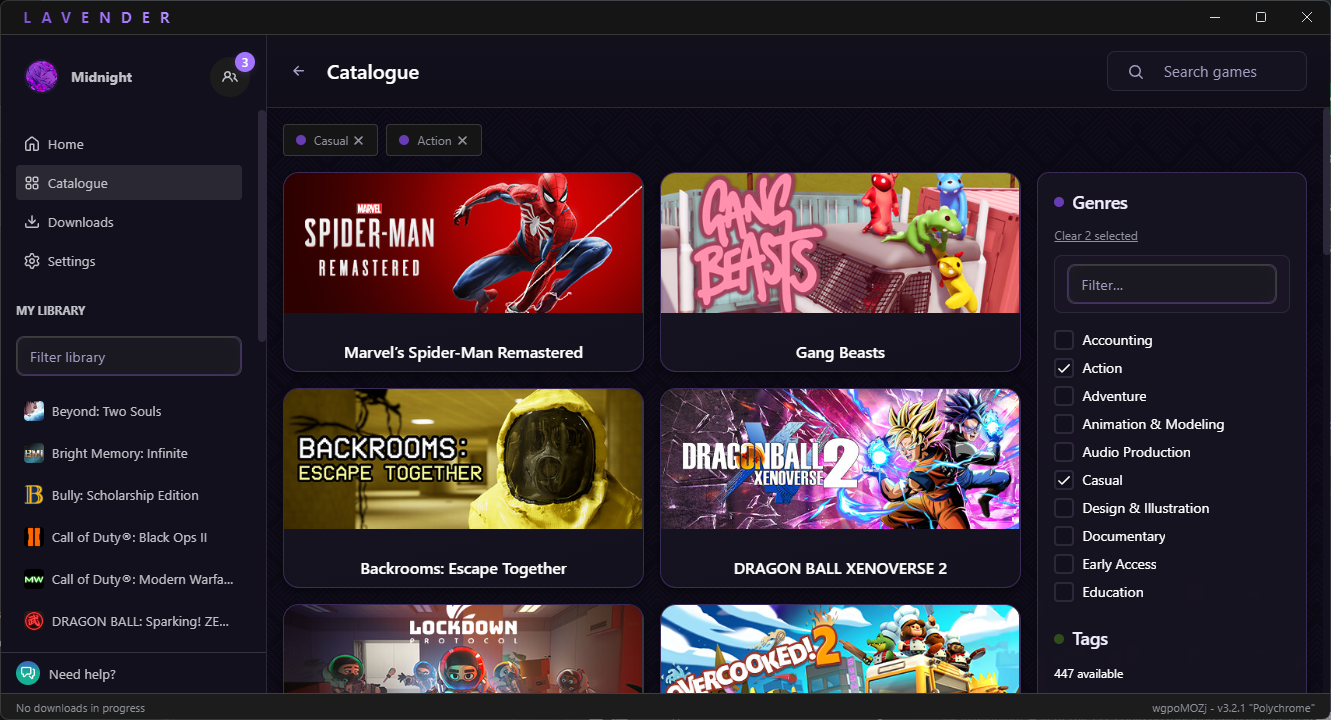
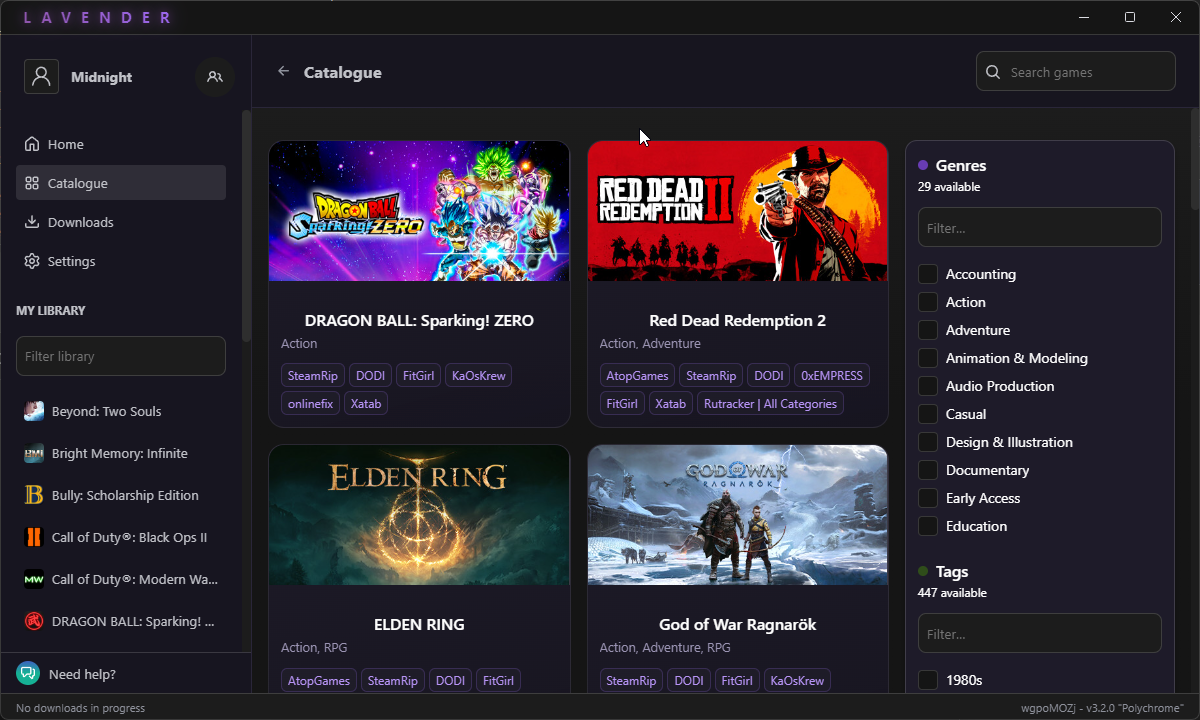
Updated Lavendar (#188)
* Delete themes/Lavender-3Q170Mjz/screenshot.png

* Add files via upload

* Update theme.css

* Update theme.css

* Update theme.css

diff --git a/themes/Lavender-3Q170Mjz/theme.css b/themes/Lavender-3Q170Mjz/theme.css
@@ -431,7 +431,7 @@ overflow: hidden;
     box-shadow: var(--shadow-md);
     transform: translateZ(0);
     will-change: transform;
-    min-height: 160px; /* Set a minimum height */
+    min-height: 220px; /* Set a minimum height */
     max-height: 200px; /* Set a maximum height */
 }
 
@@ -444,6 +444,19 @@ overflow: hidden;
     transition: opacity 0.3s ease;
 }
 
+.game-item::after { /* changed */
+    content: '';
+    position: absolute;
+    inset: 0;
+      background: linear-gradient(
+    to bottom,
+    rgba(0, 0, 0, 0) 40%,
+    rgba(0, 0, 0, 0.3) 80%,
+    rgba(0, 0, 0, 0.5) 100% 
+  );
+  z-index: -1;
+}
+
 .game-item:hover {
     transform: translateY(-8px) scale(1.02);
     border-color: var(--purple);
@@ -454,26 +467,50 @@ overflow: hidden;
     opacity: 0.5;
 }
 
-.game-item__cover {
-    width: 100%;
-    height: 140px; /* Adjusted for better proportion */
-    object-fit: cover;
-    border-radius: 12px 12px 0 0;
-    transition: transform 0.5s ease;
+.game-item__cover { /* changed */
+    /* width: 100%; */
+    /* height: 140px; Adjusted for better proportion */
+    /* object-fit: cover; */
+    /* border-radius: 12px 12px 0 0; */
+    /* transition: transform 0.5s ease; */
+    position: absolute;
+    inset: 0;
+    height: 100%;
+    width: 100%;    
+    z-index: -2;
 }
 
 .game-item:hover .game-item__cover {
     transform: scale(1.05);
 }
 
-.game-item__details {
+.game-item__details { /* changed */
     padding: 12px; /* Reduced from 16px */
     display: flex;
-    flex-direction: column;
+    flex-direction: row;
+    flex-wrap: wrap;
     gap: 6px; /* Reduced from 8px */
     width: 100%;
     box-sizing: border-box;
+    bottom: 0;
+    position: absolute;
+    text-align: left;
+    align-items: flex-end;
 }
+
+#root > main > article > section > div > div.catalogue__content > div.catalogue__games-container > button > div > span:nth-child(1) {
+  width: fit-content;
+  flex: 0 0 auto;
+  display: flex;
+} /* changed */
+
+#root > main > article > section > div > div.catalogue__content > div.catalogue__games-container > button > div > span.game-item__genres {
+  display: none;
+} /* changed */
+
+.game-item__details > *:nth-child(3) {
+  flex-basis: 100%;
+} /* changed */
 
 .game-item__details span:first-child {
     font-weight: 600;
@@ -517,21 +554,22 @@ overflow: hidden;
     padding: 4px 8px;
     border-radius: 6px;
     font-size: 0.75rem;
-    background: var(--purple-muted);
+    background: rgba(10, 8, 19, 0.85); /* Darker, more opaque background */
     color: var(--purple-light);
-    border: 1px solid var(--border-light);
+    border: 1px solid var(--purple-muted);
     transition: all 0.3s ease;
     white-space: nowrap;
     backdrop-filter: blur(8px);
-    box-shadow: var(--shadow-sm);
+    box-shadow: 0 2px 4px rgba(0, 0, 0, 0.4); /* Stronger shadow for depth */
+    text-shadow: 0 1px 2px rgba(0, 0, 0, 0.5); /* Text shadow for readability */
 }
 
 .badge:hover {
-    background: var(--purple-glow);
+    background: var(--purple-muted);
     border-color: var(--purple);
     transform: translateY(-1px);
-    box-shadow: var(--glow-sm);
-    color: var(--text2);
+    box-shadow: var(--glow-sm), 0 4px 8px rgba(0, 0, 0, 0.5);
+    color: var(--text);
 }
 
 /* Catalogue Layout Fixes */
@@ -592,6 +630,8 @@ overflow: hidden;
 
 .pagination__button {
     min-width: 40px;
+    position: relative;
+    left: 200px;
     height: 40px;
     padding: 0 12px;
     display: flex;
@@ -638,8 +678,12 @@ overflow: hidden;
     user-select: none;
 }
 
+
+
 .pagination__ellipsis-text {
     font-size: 1.2rem;
+    position: relative;
+    left: 200px;
     line-height: 0.5;
 }
 
@@ -659,6 +703,7 @@ overflow: hidden;
 /* Catalogue Background */
 .catalogue {
     position: relative;
+    overflow-y: visible;
     background: 
         linear-gradient(
             to bottom,
@@ -752,6 +797,11 @@ overflow: hidden;
 -------------------------------------------------- */
 .title-bar h4 {
     visibility: hidden;
+}
+
+.title-bar, 
+#root > footer {
+  background-color: var(--bg); /* changed */
 }
 
 .title-bar::after {
@@ -986,7 +1036,6 @@ overflow: hidden;
     background: rgba(25, 21, 36, 0.6);
     border: 1px solid var(--border);
     border-radius: 8px;
-    padding: 8px 12px;
     color: var(--text);
     font-size: 0.95rem;
     width: 100%;
@@ -1002,6 +1051,11 @@ overflow: hidden;
     outline: none;
 }
 
+.text-field-container__text-field--dark {
+    /* Disable background color */
+    background: none;
+}
+
 .text-field-container__text-field-input:not(:focus),
 .filter-section__search:not(:focus-within) {
     box-shadow: none;
@@ -1015,6 +1069,42 @@ overflow: hidden;
 
 .game-item {
     animation: slideInUp 0.6s cubic-bezier(0.2, 0.8, 0.2, 1) backwards;
+}
+
+/* Game Details
+-------------------------------------------------- */
+.game-details__description-content {
+    padding: 24px;
+    background: var(--bg2);
+    border-radius: 12px;
+    box-shadow: var(--shadow-md);
+    margin-bottom: 24px;
+}
+
+.description-header {
+    display: flex;
+    justify-content: space-between;
+    align-items: center;
+    margin-bottom: 16px;
+}
+
+.description-header__info p {
+    margin: 0;
+    color: var(--text-dim);
+    font-size: 0.9rem;
+}
+
+
+.game-details__description {
+    color: var(--text);
+    line-height: 1.6;
+}
+
+.game-details__description img.bb_img {
+    max-width: 100%;
+    border-radius: 8px;
+    box-shadow: var(--shadow-sm);
+    margin: 16px 0;
 }
 
 .game-item:nth-child(1) { animation-delay: 0.1s; }
@@ -1639,7 +1729,7 @@ overflow: hidden;
 -------------------------------------------------- */
 .achievements__list {
     display: grid;
-    grid-template-columns: repeat(auto-fill, minmax(300px, 1fr));
+    grid-template-columns: repeat(auto-fill, minmax(280px, 1fr)); /* Reduced minimum width */
     gap: 16px;
     padding: 16px;
     margin: 0;
@@ -1656,6 +1746,7 @@ overflow: hidden;
     display: flex;
     gap: 16px;
     transition: all 0.3s cubic-bezier(0.4, 0, 0.2, 1);
+    flex-wrap: wrap; /* Allow content to wrap */
 }
 
 .achievements__item:hover {
@@ -1665,8 +1756,8 @@ overflow: hidden;
 }
 
 .achievements__item-image {
-    width: 64px;
-    height: 64px;
+    width: 48px; /* Reduced size */
+    height: 48px; /* Reduced size */
     border-radius: 8px;
     object-fit: cover;
     flex-shrink: 0;
@@ -1681,18 +1772,19 @@ overflow: hidden;
     display: flex;
     flex-direction: column;
     gap: 4px;
+    min-width: 200px; /* Ensure text has room */
 }
 
 .achievements__item-title {
     color: var(--text);
-    font-size: 1.1rem;
+    font-size: 1rem; /* Slightly smaller */
     font-weight: 600;
     margin: 0;
 }
 
 .achievements__item-content p {
     color: var(--text-dim);
-    font-size: 0.9rem;
+    font-size: 0.85rem; /* Slightly smaller */
     margin: 0;
     line-height: 1.4;
 }
@@ -1716,14 +1808,14 @@ overflow: hidden;
 }
 
 .achievements__item-points-icon {
-    width: 16px;
-    height: 16px;
+    width: 14px; /* Smaller icon */
+    height: 14px; /* Smaller icon */
     opacity: 0.8;
 }
 
 .achievements__item-points-value {
     color: var(--purple-light);
-    font-size: 0.85rem;
+    font-size: 0.8rem; /* Slightly smaller */
     font-weight: 600;
     margin: 0;
 }
@@ -1731,11 +1823,14 @@ overflow: hidden;
 /* Responsive adjustments */
 @media (max-width: 768px) {
     .achievements__list {
-        grid-template-columns: 1fr;
+        grid-template-columns: repeat(auto-fill, minmax(240px, 1fr)); /* Even smaller on mobile */
+        gap: 12px;
+        padding: 12px;
     }
     
     .achievements__item {
         padding: 12px;
+        gap: 12px;
     }
 }
 
@@ -1811,5 +1906,4 @@ overflow: hidden;
     background: var(--purple);
     transition: width 0.3s ease;
 }
-
 
